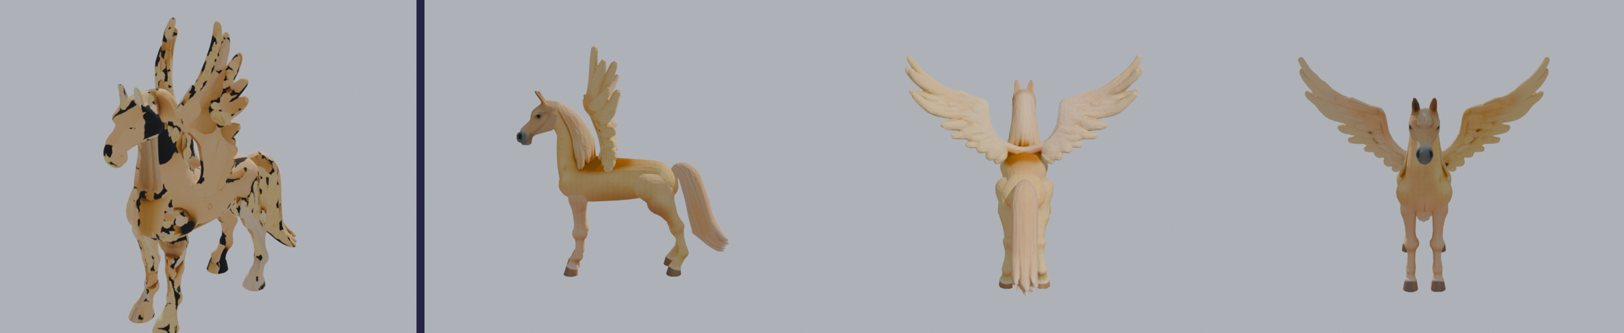
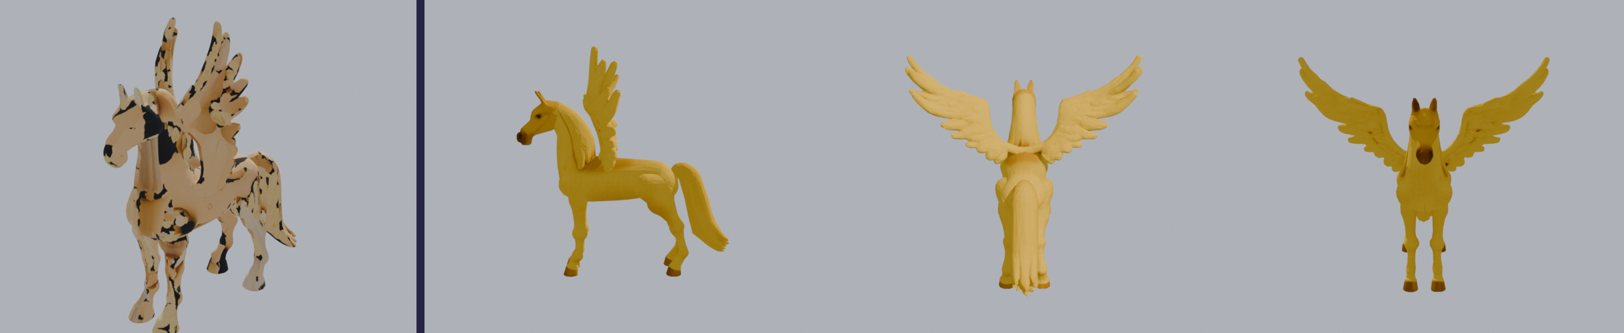
Croquis projet roblox 1

Changed region(s): [[0.3079, 0.1502, 0.4618, 0.8408], [0.5542, 0.1802, 0.7081, 0.8709], [0.8005, 0.1802, 0.9544, 0.8709]]

diff --git a/projet-roblox-1/index.html b/projet-roblox-1/index.html
@@ -13,7 +13,7 @@ figure{margin:0;background:var(--panel);border:1px solid var(--line);border-radi
 <h1>Ailés refaits</h1>
 <p>Même méthode que les quadrupèdes : une seule queue loin des pattes, yeux en amande, chacun vérifié de dos. Les dragons sont maintenant <b>à quatre pattes, le corps à l'horizontale</b> (avant, ils se tenaient debout comme des humains). Sur chaque image : <b>à gauche l'actuel</b>, puis le nouveau de profil, de dos et de face. Les 4 boss ailés (Dragon ancien, Griffon doré, Dragon de lave, Dragon spectral) ne sont pas touchés : leurs animations de combat dépendent de leur squelette.</p>
 <h2>Proposés (13)</h2>
-<figure><img src="Dragon.jpg" alt="Dragon : actuel puis nouveau" loading="lazy"><figcaption><b>Dragon</b></figcaption></figure><figure><img src="DragonCosmique.jpg" alt="Dragon cosmique : actuel puis nouveau" loading="lazy"><figcaption><b>Dragon cosmique</b></figcaption></figure><figure><img src="DragonNeant.jpg" alt="Dragon du néant : actuel puis nouveau" loading="lazy"><figcaption><b>Dragon du néant</b></figcaption></figure><figure><img src="DragonOmbre.jpg" alt="Dragon de l'ombre : actuel puis nouveau" loading="lazy"><figcaption><b>Dragon de l'ombre</b> · une seule tête (les essais à 3 têtes se mettent debout)</figcaption></figure><figure><img src="DragonnetCristal.jpg" alt="Dragonnet de cristal : actuel puis nouveau" loading="lazy"><figcaption><b>Dragonnet de cristal</b></figcaption></figure><figure><img src="DragonnetLave.jpg" alt="Dragonnet de lave : actuel puis nouveau" loading="lazy"><figcaption><b>Dragonnet de lave</b></figcaption></figure><figure><img src="WyverneGivre.jpg" alt="Wyverne de givre : actuel puis nouveau" loading="lazy"><figcaption><b>Wyverne de givre</b></figcaption></figure><figure><img src="Gargouille.jpg" alt="Gargouille : actuel puis nouveau" loading="lazy"><figcaption><b>Gargouille</b></figcaption></figure><figure><img src="Griffon.jpg" alt="Griffon : actuel puis nouveau" loading="lazy"><figcaption><b>Griffon</b></figcaption></figure><figure><img src="GriffonCeleste.jpg" alt="Griffon céleste : actuel puis nouveau" loading="lazy"><figcaption><b>Griffon céleste</b> · tête d'aigle moins marquée</figcaption></figure><figure><img src="SphinxDore.jpg" alt="Sphinx doré : actuel puis nouveau" loading="lazy"><figcaption><b>Sphinx doré</b></figcaption></figure><figure><img src="Pegase.jpg" alt="Pégase : actuel puis nouveau" loading="lazy"><figcaption><b>Pégase</b></figcaption></figure><figure><img src="PegaseOr.jpg" alt="Pégase d'or : actuel puis nouveau" loading="lazy"><figcaption><b>Pégase d'or</b></figcaption></figure>
+<figure><img src="Dragon.jpg" alt="Dragon : actuel puis nouveau" loading="lazy"><figcaption><b>Dragon</b></figcaption></figure><figure><img src="DragonCosmique.jpg" alt="Dragon cosmique : actuel puis nouveau" loading="lazy"><figcaption><b>Dragon cosmique</b></figcaption></figure><figure><img src="DragonNeant.jpg" alt="Dragon du néant : actuel puis nouveau" loading="lazy"><figcaption><b>Dragon du néant</b></figcaption></figure><figure><img src="DragonOmbre.jpg" alt="Dragon de l'ombre : actuel puis nouveau" loading="lazy"><figcaption><b>Dragon de l'ombre</b> · une seule tête (les essais à 3 têtes se mettent debout)</figcaption></figure><figure><img src="DragonnetCristal.jpg" alt="Dragonnet de cristal : actuel puis nouveau" loading="lazy"><figcaption><b>Dragonnet de cristal</b></figcaption></figure><figure><img src="DragonnetLave.jpg" alt="Dragonnet de lave : actuel puis nouveau" loading="lazy"><figcaption><b>Dragonnet de lave</b></figcaption></figure><figure><img src="WyverneGivre.jpg" alt="Wyverne de givre : actuel puis nouveau" loading="lazy"><figcaption><b>Wyverne de givre</b></figcaption></figure><figure><img src="Gargouille.jpg" alt="Gargouille : actuel puis nouveau" loading="lazy"><figcaption><b>Gargouille</b></figcaption></figure><figure><img src="Griffon.jpg" alt="Griffon : actuel puis nouveau" loading="lazy"><figcaption><b>Griffon</b></figcaption></figure><figure><img src="GriffonCeleste_1.jpg" alt="Griffon céleste, version nuit étoilée" loading="lazy"><figcaption><b>Griffon céleste 1</b> · plumes bleu nuit, étoiles et bords dorés</figcaption></figure><figure><img src="GriffonCeleste_2.jpg" alt="Griffon céleste, version galaxie" loading="lazy"><figcaption><b>Griffon céleste 2</b> · corps galaxie violet et bleu, ailes étoilées</figcaption></figure><figure><img src="SphinxDore.jpg" alt="Sphinx doré : actuel puis nouveau" loading="lazy"><figcaption><b>Sphinx doré</b> · recoloré en or (coiffe et ailes bleues gardées), brillance métal en jeu</figcaption></figure><figure><img src="Pegase.jpg" alt="Pégase : actuel puis nouveau" loading="lazy"><figcaption><b>Pégase</b></figcaption></figure><figure><img src="PegaseOr.jpg" alt="Pégase d'or : actuel puis nouveau" loading="lazy"><figcaption><b>Pégase d'or</b> · recoloré en or, brillance métal en jeu</figcaption></figure>
 <h2>Problème : chevaux ailés avec corne (3)</h2>
 <p>Dès qu'il y a une corne et des ailes, le générateur fait un poney de dessin animé (ou ajoute une corne au Pégase nuage). Je propose de <b>garder les actuels</b> pour ces trois-là, sauf si tu préfères une autre idée.</p>
 <figure><img src="PegaseNuage.jpg" alt="Pégase nuage : actuel puis nouveau" loading="lazy"><figcaption><b>Pégase nuage</b> · ⚠ le générateur ajoute une corne (4 essais) : je propose de garder l'actuel</figcaption></figure><figure><img src="Alicorne.jpg" alt="Alicorne : actuel puis nouveau" loading="lazy"><figcaption><b>Alicorne</b> · ⚠ style poney de dessin animé dès qu'il y a corne + ailes : je propose de garder l'actuel</figcaption></figure><figure><img src="LicorneDivine.jpg" alt="Licorne divine : actuel puis nouveau" loading="lazy"><figcaption><b>Licorne divine</b> · ⚠ même souci (poney) : je propose de garder l'actuel</figcaption></figure>
